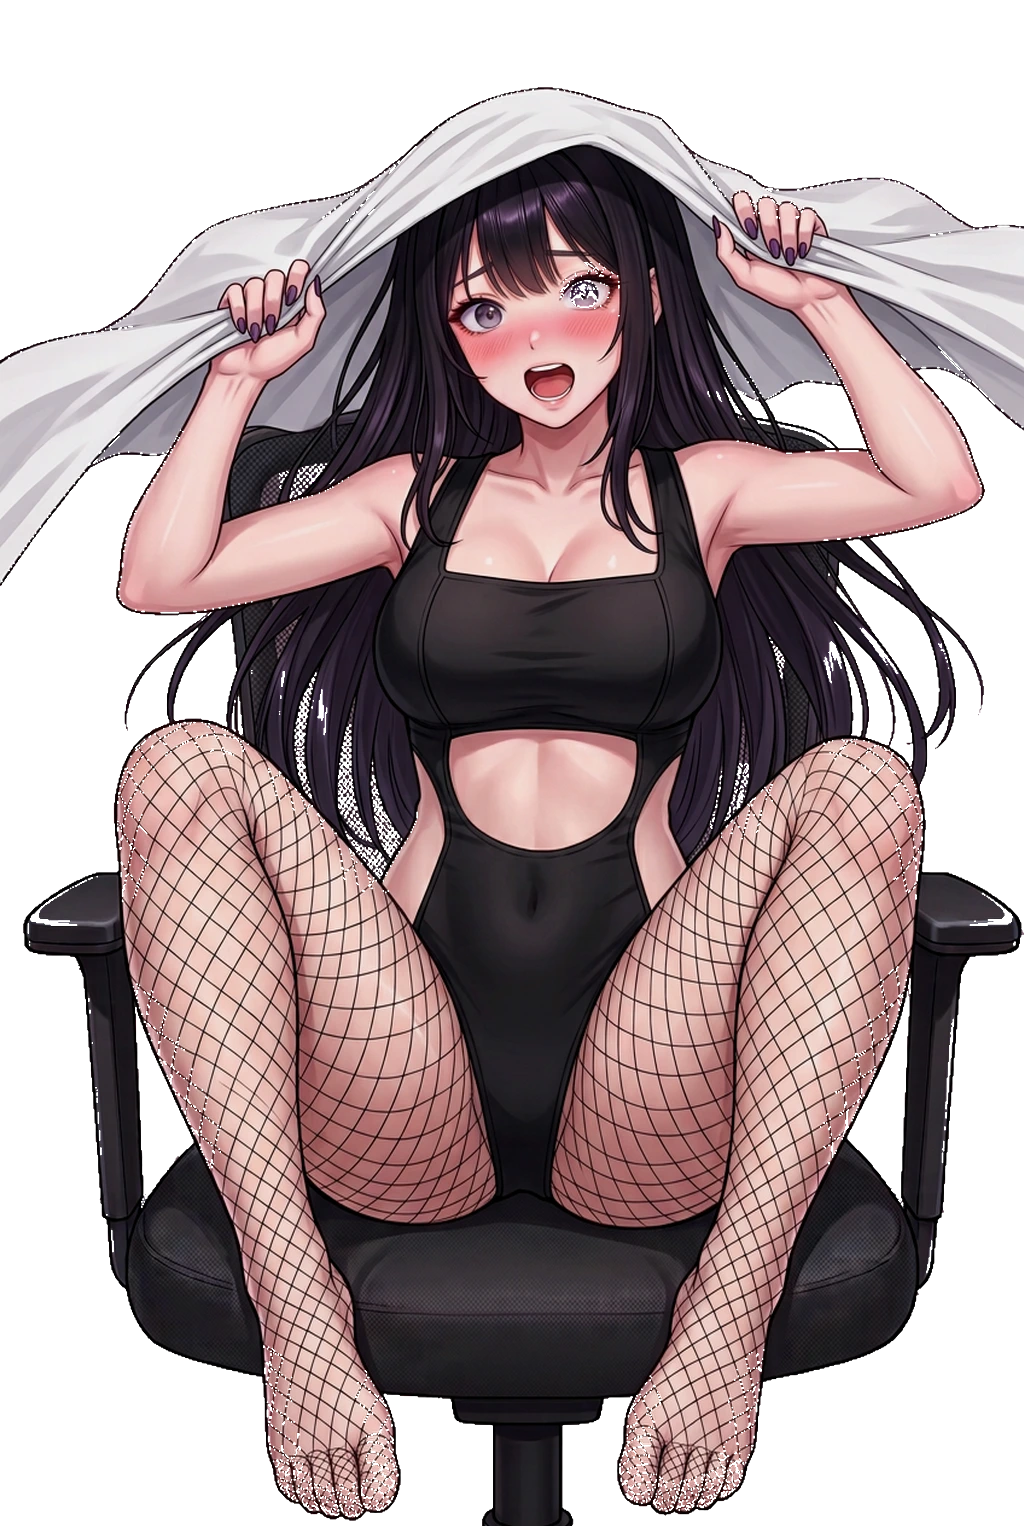
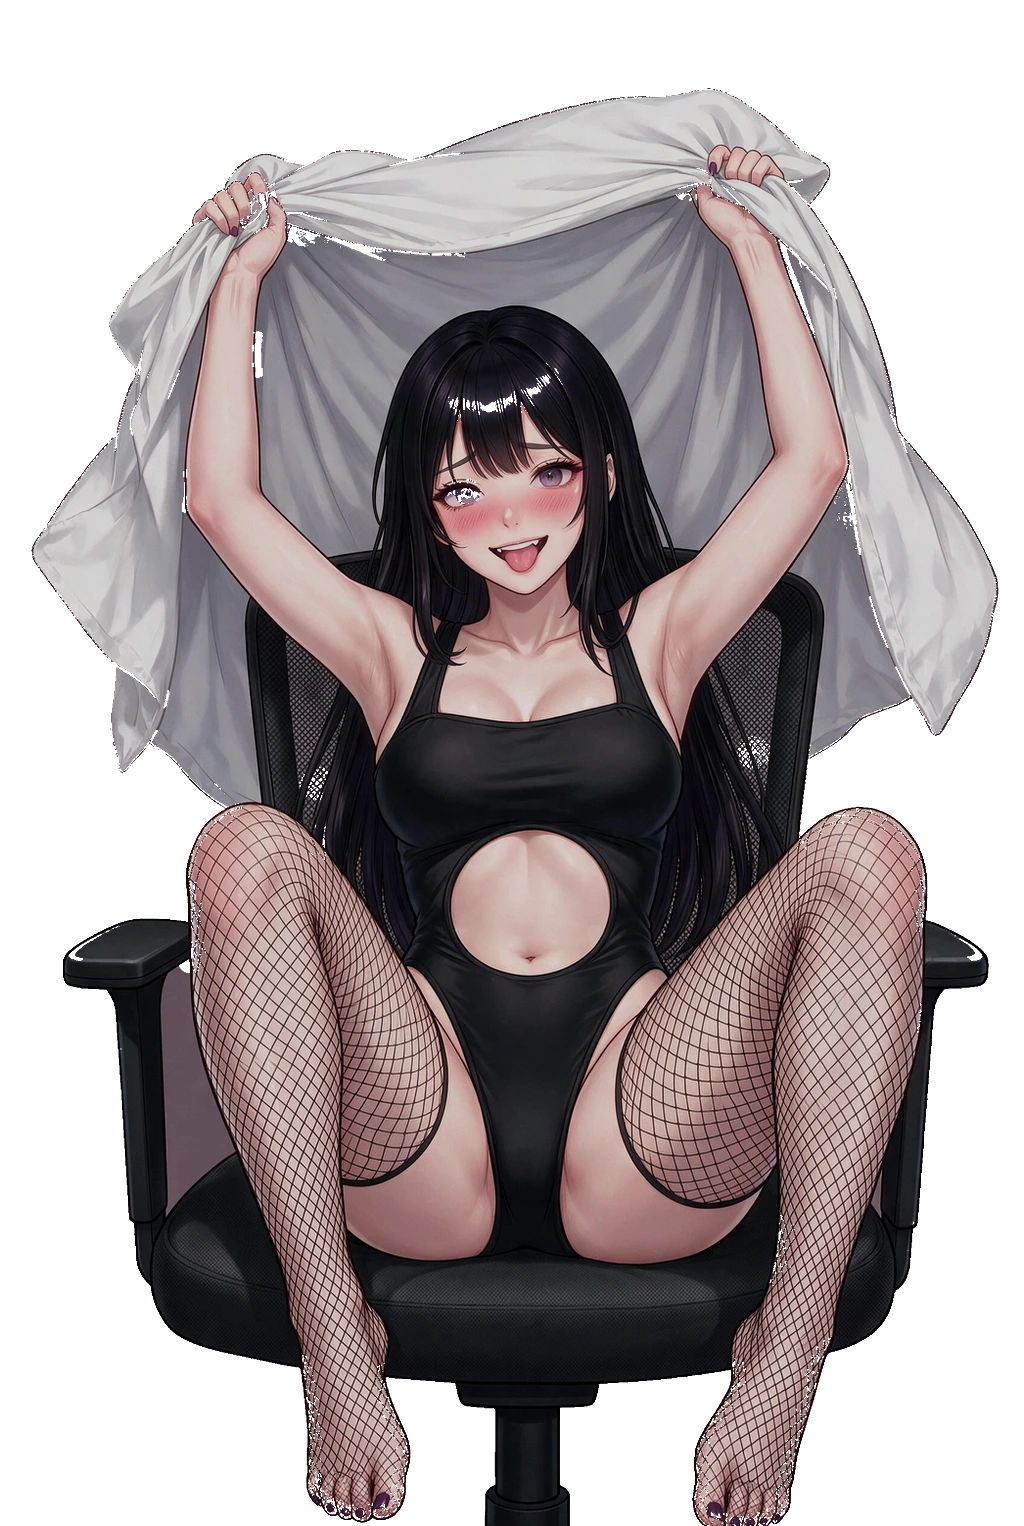
Fix Day-3 art: matching open-belly bodysuit, sheet fully inside the frame
The «Бу!» plate (and its flash twin) came from a raw whose sheet ran off both side edges, so once keyed
the cloth ended in a straight vertical slice in mid-air — the "простыня слетела/обрезана" complaint. That
is not croppable away: the plate pipeline only tightens a silhouette. Re-rendered wider
(art-studio/raw/t3_v2_a0_boo.png), which also put the round belly window in the frame the day is named after.

Stage 1 moved to t3_v2_a2_hem.png for the same garment reason: the sheet is gathered under her arms and
the bodysuit reads as the one-piece with the open belly instead of a closed tank.

Framing drift from the new renders is absorbed by fit_head_band(): a plate whose head starts below row 122
is scaled about its bottom edge back into the 87-122 band Days 1-2 use, which keeps the soles where the
desk-contact rule needs them (a row stretch would shear the legs), and a head landing too LOW stops the
build, because only a re-frame fixes that. Face anchors follow the new framing.

scripts/day3_plate_qc.py turns the complaints into the gates it runs on — cloth pixels touching the plate
edge, lowest body row vs the plank, head band, rim softness, tone — and lists the one open defect (stage 4
still has the old full-bleed cape sheet, which needs its own re-render) rather than hiding it. Stages 0
and 2 stay on the old frames: the replacements on disk miss the desk contact, and feet floating off the
plank is exactly what was rejected before.

diff --git a/scripts/day3_plate_qc.py b/scripts/day3_plate_qc.py
@@ -1,0 +1,128 @@
+#!/usr/bin/env python3
+"""Acceptance metrics for the Day-3 plates — the numbers behind each complaint about this art.
+
+Run it after `scripts/process_day3_ghost_arts.py`. Every check is a thing the user has already
+pointed at, so it is measured instead of remembered:
+
+  cloth-cut   bright cloth pixels sitting ON the plate border. A sheet that runs off the raw ends as a
+              straight vertical slice in mid-air once keyed — the "простыня обрезана" complaint.
+  desk        her lowest body row vs the plank line (1489) + the 12 px margin that reads as contact.
+              "ступни на столе" is a pixel rule, not a feeling.
+  framing     the top row of her head: Days 1 and 2 sit at 87-89, and a plate that lands lower reads
+              as a different camera, which is how a stage cut looks broken.
+  halo rim    semi-transparent pixels per unit of silhouette contour, compared against the version of
+              the same plate that is already committed. A resample that averages straight-alpha RGB
+              leaves a coloured fringe ("фон плохо вырезан"); the rim may not get worse than shipped.
+  style       mean luminance and near-black share, so a frame cannot come out milky or washed.
+
+What this script cannot tell you is whether the bodysuit is the SAME garment from frame to frame — a
+skin-row heuristic reads cloth folds as belly and goes to zero when a hand crosses the stomach, so the
+garment check stays what it always was: scripts/day3_garment_sheet.py, looked at.
+
+Exempt entries exist where a pose legitimately breaks a rule (on all fours her soles kick up behind
+her, so the desk cannot be touched) — they are listed, not silently skipped.
+"""
+from __future__ import annotations
+
+import sys
+from pathlib import Path
+
+import cv2
+import numpy as np
+
+ROOT = Path(__file__).resolve().parents[1]
+ART = ROOT / "public/art"
+
+PLANK, MARGIN = 1489, 12
+HEAD_BAND = (87, 122)
+DAY3 = ["heroine_t3_s0", "heroine_t3_s1", "heroine_t3_s2", "heroine_t3_s3", "heroine_t3_s4", "heroine_t3_flash"]
+# Frames whose pose cannot put weight on the plank (see the note above).
+DESK_EXEMPT = {"heroine_t3_s2"}
+# Rim softness and tone are compared to absolute bars, measured off the frames the user signed off on
+# (max rim 5.23 on the all-fours plate, luminance 93-131 across days 1-2). A same-name baseline would
+# be cleaner, but the source art gets re-rendered during a day's life and then the old numbers describe
+# a different picture, which is how a correct plate used to fail and a wrong one pass.
+SOFT_BAR = 6.0
+LUM_BAR = (88, 135)
+# Open defects, listed instead of hidden: the cape plate still has the old full-bleed sheet because a
+# re-render of that pose is what has to fix it (the raw itself is cut). Anything NOT in this list that
+# touches an edge fails the run, so the defect cannot silently spread to the other frames.
+KNOWN_CUT = {"heroine_t3_s4"}
+
+
+def measure(img: np.ndarray) -> dict | None:
+    if img is None or img.ndim != 3 or img.shape[2] < 4:
+        return None
+    b, g, r, a = (img[..., i].astype(np.int32) for i in range(4))
+    rgb = img[..., :3]
+    lum = 0.114 * b + 0.587 * g + 0.299 * r
+    sat = np.max(rgb, 2).astype(np.int32) - np.min(rgb, 2).astype(np.int32)
+    op = a > 8
+    if not op.any():
+        return None
+    ys, xs = np.where(op)
+    bright = (a > 200) & (lum > 150) & (sat < 46)
+    body = (a > 200) & (lum > 70)
+    brows = np.where(body.sum(1) > 12)[0]
+    cnts, _ = cv2.findContours((a > 128).astype(np.uint8), cv2.RETR_EXTERNAL, cv2.CHAIN_APPROX_NONE)
+    contour = sum(cv2.arcLength(c, True) for c in cnts)
+    return dict(
+        cut=int(bright[:, :3].sum() + bright[:, -3:].sum()),
+        body_low=int(brows.max()) if brows.size else -1,
+        head=int(ys.min()),
+        soft=round(float(((a > 10) & (a < 245)).sum()) / max(1.0, contour), 3),
+        lum=round(float(lum[op].mean()), 1),
+        dark=round(float((lum[op] < 70).mean()), 3),
+        bbox=(int(xs.min()), int(ys.min()), int(xs.max()), int(ys.max())),
+    )
+
+
+def read(path: Path) -> np.ndarray:
+    # .webp first: that is the file the game loads, so the numbers describe what players see.
+    for ext in (".webp", ".png"):
+        img = cv2.imread(str(path.with_suffix(ext)), cv2.IMREAD_UNCHANGED)
+        if img is not None:
+            return img
+    return None  # type: ignore[return-value]
+
+
+def main() -> int:
+    fails: list[str] = []
+    print(f"{'plate':18s} {'cut':>5s} {'bodyLow':>7s} {'desk':>6s} {'head':>5s} {'rim':>6s} {'lum':>6s} {'dark':>5s}")
+    for name in DAY3 + ["heroine_t1_s0", "heroine_t1_s4", "heroine_t2_s0"]:
+        m = measure(read(ART / name))
+        if m is None:
+            fails.append(f"{name}: no readable plate")
+            continue
+        day3 = name in DAY3
+        desk = (
+            "n/a"
+            if not day3
+            else "exempt"
+            if name in DESK_EXEMPT
+            else ("ok" if m["body_low"] >= PLANK + MARGIN else "FLOAT")
+        )
+        if day3 and desk == "FLOAT":
+            fails.append(f"{name}: her body stops at row {m['body_low']}, {PLANK - m['body_low']} rows above the plank")
+        if day3 and m["cut"] > 0 and name not in KNOWN_CUT:
+            fails.append(f"{name}: {m['cut']} px of cloth touch the plate edge — the cut will show as a straight slice")
+        if day3 and not HEAD_BAND[0] <= m["head"] <= HEAD_BAND[1]:
+            fails.append(f"{name}: head starts at row {m['head']}, outside the {HEAD_BAND} framing band")
+        if day3 and m["soft"] > SOFT_BAR:
+            fails.append(f"{name}: rim softness {m['soft']:.3f} over the {SOFT_BAR} bar — fringe/halo risk")
+        if day3 and not LUM_BAR[0] <= m["lum"] <= LUM_BAR[1]:
+            fails.append(f"{name}: mean luminance {m['lum']} outside the {LUM_BAR} style window")
+        rim = f"{m['soft']:.3f}"
+        flag = "" if m["cut"] == 0 or name not in KNOWN_CUT else " (known)"
+        print(f"{name:18s} {m['cut']:5d} {m['body_low']:7d} {desk:>6s} {m['head']:5d} {rim:>6s} {m['lum']:6.1f} {m['dark']:5.3f}{flag}")
+    print()
+    for f in fails:
+        print("FAIL", f)
+    if fails:
+        return 1
+    print("day3 plate QC: ok")
+    return 0
+
+
+if __name__ == "__main__":
+    sys.exit(main())

diff --git a/scripts/process_day3_ghost_arts.py b/scripts/process_day3_ghost_arts.py
@@ -49,15 +49,17 @@ FRAMES: dict[str, str] = {
     # stage 0 — the day opens in the full costume, both feet out toward the camera
     "heroine_t3_s0": "t3_dsk_a1.png",
     # stage 1 — she lifts the hem: the lower half of the bodysuit is open to the chat
-    "heroine_t3_s1": "t3_dsk_a2.png",
+    "heroine_t3_s1": "t3_v2_a2_hem.png",
     # stage 2 — on the chair on all fours, the sheet stays only on her head
     "heroine_t3_s2": "t3_sc_a3.png",
-    # stage 3 — the "Boo!" jump: the sheet comes off, nothing is left to hide behind
-    "heroine_t3_s3": "t3_sc_a0.png",
+    # stage 3 — the "Boo!" jump: the sheet comes off, nothing is left to hide behind. The v2 render
+    # replaced the old one because the old sheet was cut by the raw's own left/right edges, so once
+    # keyed the cloth ended in a straight vertical slice in mid-air.
+    "heroine_t3_s3": "t3_v2_a0_boo.png",
     # stage 4 — finale: the sheet is caught at the shoulders as a cape, one leg to camera
     "heroine_t3_s4": "t3_sc_a4.png",
     # the «Бу!» flash gimmick reuses the sheet-off frame — it is the same gag, one pose
-    "heroine_t3_flash": "t3_sc_a0.png",
+    "heroine_t3_flash": "t3_v2_a0_boo.png",
 }
 
 # The generator keeps finishing her feet a finger's width short of the canvas bottom, which — once
@@ -69,11 +71,11 @@ FRAMES: dict[str, str] = {
 # own measured sole row; both stay small enough that the fishnet mesh never goes rubbery.
 LEG_STRETCH: dict[str, tuple[int, float]] = {
     "heroine_t3_s0": (780, 0.051),
-    "heroine_t3_s1": (780, 0.058),
+    "heroine_t3_s1": (780, 0.03),
     # the "Бу!" jump and the crossfade flash share one raw — treat them identically or the cut
     # between them steps her legs by a few pixels.
-    "heroine_t3_s3": (760, 0.086),
-    "heroine_t3_flash": (760, 0.086),
+    "heroine_t3_s3": (780, 0.05),
+    "heroine_t3_flash": (780, 0.05),
     "heroine_t3_s4": (760, 0.090),
 }
 # Whatever the stretch cannot reach without distorting comes from a plain slide; only the chair base
@@ -118,6 +120,55 @@ def elongate_below(arr: np.ndarray, hinge: int, extra: float) -> np.ndarray:
     out = np.empty_like(arr)
     out[:, :, 3] = alpha.astype(arr.dtype)
     out[:, :, :3] = np.clip(prem / nz[..., None], 0, 255).astype(arr.dtype)
+    return out
+
+# Every accepted Day-1/Day-2 plate tops her head in this row window, so a Day-3 frame whose generator
+# framed tighter has to come back to the same scale or the stage cut reads as a zoom.
+HEAD_BAND = (87, 122)
+HEAD_TARGET = 88
+
+
+def fit_head_band(arr: np.ndarray, stage: str) -> np.ndarray:
+    """Shrink the whole plate about its bottom edge until her head sits in HEAD_BAND.
+
+    A uniform scale of a couple of percent is the gentle way to absorb the generator\u0027s framing
+    drift: nothing is sheared (a row stretch would do that to the legs) and the soles barely move,
+    because they sit right where the scale is anchored — so the desk contact the last task fought for
+    survives. A head BELOW the band cannot be fixed by shrinking, so that case stops the build: the
+    raw has to be re-framed rather than scaled up into a clipped pair of feet.
+    """
+    h, w = arr.shape[:2]
+    rows = np.nonzero((arr[:, :, 3] > 8).sum(axis=1) > 2)[0]
+    if rows.size == 0:
+        return arr
+    head = int(rows.min())
+    lo, hi = HEAD_BAND
+    if head >= lo:
+        if head > hi:
+            raise SystemExit(
+                f"{stage}: her head starts at row {head}, below the {lo}-{hi} band the accepted plates "
+                "share — re-frame the raw (scaling up would clip her feet off the plate)."
+            )
+        return arr
+    scale = (h - 1 - HEAD_TARGET) / (h - 1 - head)
+    gx = np.arange(w, dtype=np.float32)
+    gy = np.arange(h, dtype=np.float32)
+    map_x, map_y = np.meshgrid((gx - w / 2) / scale + w / 2, (gy - (h - 1)) / scale + (h - 1))
+    a = arr[:, :, 3:4].astype(np.float32) / 255.0
+    prem = cv2.remap(
+        arr[:, :, :3].astype(np.float32) * a, map_x, map_y, cv2.INTER_LANCZOS4,
+        borderMode=cv2.BORDER_CONSTANT, borderValue=0,
+    )
+    alpha = cv2.remap(
+        a[:, :, 0], map_x, map_y, cv2.INTER_LANCZOS4, borderMode=cv2.BORDER_CONSTANT, borderValue=0
+    )
+    alpha = np.clip((alpha * 255.0 - 70.0) * (255.0 / 150.0), 0.0, 255.0)
+    a2 = alpha / 255.0
+    nz = np.where(a2 > 1e-3, a2, 1.0)
+    out = np.empty_like(arr)
+    out[:, :, 3] = alpha.astype(arr.dtype)
+    out[:, :, :3] = np.clip(prem / nz[..., None], 0, 255).astype(arr.dtype)
+    print(f"  {stage}: re-framed from head row {head} to {HEAD_TARGET} (scale {scale:.4f})")
     return out
 
 # Days 1 and 2 sit at mean luminance 90-118; ungraded Day 3 frames come out washed at ~117.
@@ -339,6 +390,8 @@ def main() -> None:
             arr = np.concatenate([np.zeros((shift, PLATE_W, 4), dtype=arr.dtype), arr[:-shift]], axis=0)
         if extra or shift:
             plate = Image.fromarray(arr, "RGBA")
+        arr = fit_head_band(np.array(plate), stage)
+        plate = Image.fromarray(arr, "RGBA")
         fg = float((arr[:, :, 3] > 8).mean())
         # Contact check, calibrated against the accepted Day-1/Day-2 plates rather than a guess:
         # a lit body part must reach within DESK_CONTACT_SLACK rows of the plank line (they measure

diff --git a/scripts/day3_garment_sheet.py b/scripts/day3_garment_sheet.py
@@ -1,0 +1,80 @@
+#!/usr/bin/env python3
+"""Side-by-side garment comparison for Day 3 (+ what touches the plate edges)."""
+from __future__ import annotations
+import cv2, numpy as np
+from pathlib import Path
+ROOT = Path(__file__).resolve().parents[1]
+ART = ROOT / 'public/art'
+OUT = ROOT / '.qa-out'
+# plate face boxes (x, y, w, h) from src/heroine/faceAnchors.ts
+FACE = {
+ 'heroine_t3_s0': (413,208,224,300),
+ 'heroine_t3_s1': (396,200,240,300),
+ 'heroine_t3_s2': (560,208,300,260),
+ 'heroine_t3_s3': (408,176,368,300),
+ 'heroine_t3_s4': (396,176,396,288),
+}
+NAMES = list(FACE) + ['heroine_t3_flash']
+FACE['heroine_t3_flash'] = FACE['heroine_t3_s3']
+
+def load(n): return cv2.imread(str(ART / f'{n}.png'), cv2.IMREAD_UNCHANGED)
+
+def on_transparent(img, color=(60,50,66)):
+    b,g,r,a = cv2.split(img)
+    bg = np.full_like(b, color[0]); bg2 = np.full_like(g, color[1]); bg3 = np.full_like(r, color[2])
+    af = a.astype(np.float32)/255.0
+    out = np.stack([ (b*af + bg3*(1-af)), (g*af + bg2*(1-af)), (r*af + bg*(1-af)) ],2).astype(np.uint8)
+    return out
+
+FULL_W = 250
+TORSO_H = 430
+cells = []
+for n in NAMES:
+    im = load(n)
+    vis = on_transparent(im)
+    H, W = vis.shape[:2]
+    # full view
+    s = FULL_W / W
+    full = cv2.resize(vis, (FULL_W, int(H*s)), interpolation=cv2.INTER_AREA)
+    lab = np.full((22, FULL_W, 3), 26, np.uint8)
+    cv2.putText(lab, n.replace('heroine_t3_',''), (4, 16), cv2.FONT_HERSHEY_SIMPLEX, 0.42, (235,235,235), 1, cv2.LINE_AA)
+    left = np.vstack([lab, full])
+    # torso crop normalised by face width so the garment is at the same scale everywhere
+    fx,fy,fw,fh = FACE[n]
+    cx = fx + fw/2
+    x0 = int(max(0, cx - 1.15*fw)); x1 = int(min(W, cx + 1.15*fw))
+    y0 = int(max(0, fy + 0.55*fh)); y1 = int(min(H, fy + 0.55*fh + 2.35*fw))
+    crop = vis[y0:y1, x0:x1]
+    cs = TORSO_H / (x1-x0)
+    crop = cv2.resize(crop, (TORSO_H, int((y1-y0)*cs)), interpolation=cv2.INTER_AREA)
+    ch = max(430, crop.shape[0])
+    pad = np.full((ch, crop.shape[1], 3), 26, np.uint8)
+    pad[:crop.shape[0]] = crop
+    lab2 = np.full((22, crop.shape[1], 3), 26, np.uint8)
+    cv2.putText(lab2, f'torso {x0},{y0}-{x1},{y1}', (4,16), cv2.FONT_HERSHEY_SIMPLEX, 0.42, (200,200,200),1,cv2.LINE_AA)
+    pair = np.hstack([left, np.vstack([lab2, pad])]) if False else None
+    a_col = np.vstack([lab2, pad])
+    hh = max(left.shape[0], a_col.shape[0])
+    def pad_to(arr, hh):
+        return cv2.copyMakeBorder(arr, 0, hh - arr.shape[0], 0, 0, cv2.BORDER_CONSTANT, value=(26,26,26))
+    cells.append(np.hstack([pad_to(left, hh), pad_to(a_col, hh)]))
+h = max(c.shape[0] for c in cells)
+rows = [np.hstack([cv2.copyMakeBorder(c, 0, h-c.shape[0], 0, 0, cv2.BORDER_CONSTANT, value=(26,26,26)) for c in cells[i:i+3]]) for i in (0,3)]
+sheet = np.vstack(rows)
+for r0 in (0, h):
+    cv2.line(sheet, (0, r0), (sheet.shape[1], r0), (90,90,90), 1)
+cv2.imwrite(str(OUT / 'day3_garment_sheet.png'), sheet)
+print('wrote', OUT / 'day3_garment_sheet.png', sheet.shape)
+
+# what touches the left/right plate edge on the boo frame and the cape frame?
+for n in ['heroine_t3_s3','heroine_t3_s4','heroine_t3_s0']:
+    im = load(n); a = im[...,3]; bgr = im[...,:3]
+    lum = (0.114*bgr[...,0] + 0.587*bgr[...,1] + 0.299*bgr[...,2]).astype(int)
+    sat = (np.max(bgr,2).astype(int) - np.min(bgr,2).astype(int))
+    for side, sl in (('L', slice(0,4)), ('R', slice(-4, None))):
+        col = a[:, sl] > 240
+        ys = np.where(col.any(1))[0]
+        if len(ys) == 0: 
+            print(f'{n} {side}: nothing touches'); continue
+        rows_lum = [int(lum[y][sl][a[y][sl]>240].mean()) if (a[y][sl]>240).any() else 0 for y in ys[::max(1,len(ys)//6)]]
+        print(f'{n} {side}: rows {ys.min()}..{ys.max()} ({len(ys)} rows) meanLum {rows_lum}')
